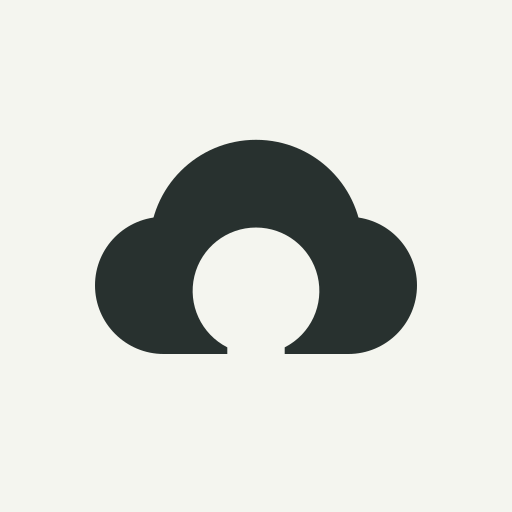
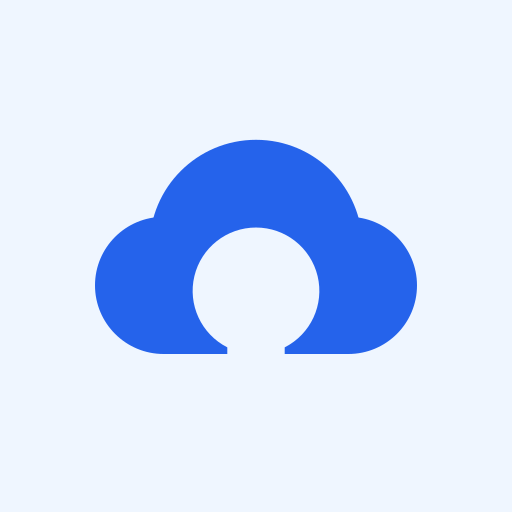
feat(theme): 晴空暖居 everywhere — retire the last sage colours (#4)
Finish the move to YunLeFun Design's 晴空暖居 palette across web, macOS
and the brand assets.

- 云空调 native plugin 0.3.1: tint #06B6D4 (cool cyan) from the rebuilt
  upstream package, with the new checksum, so existing installs update.
- Device accents follow the fixed tone mapping: AC cyan/coral, robot
  vacuum cyan/green, hand warmer amber, TV sky like the fan.
- 2D glyphs: the TV screen lights sky blue, robot vacuum body is cool
  slate, running LEDs are green, the hand warmer glows amber, and glyph
  and device shadows use slate/sky instead of sage ink.
- The robot's cleaning route is cyan in 2D (--tone-cool) and 3D.
- Scene brass is warm amber; the "sage" room wall, already sky blue, is
  renamed sky.
- Brand mark: a sky blue cloud gate on a pale sky tile. PWA, favicon,
  Apple touch and macOS icons are re-exported from the SVGs, and the PWA
  theme colour matches the page's #eef5ff.

Changed region(s): [[0.1875, 0.25, 0.8125, 0.7188]]

diff --git a/devices/robot-vacuum/RobotVacuumGlyph.vue b/devices/robot-vacuum/RobotVacuumGlyph.vue
@@ -40,16 +40,16 @@ withDefaults(defineProps<DeviceGlyphProps>(), {
   pointer-events: none;
 }
 
-.robot-glyph__shadow { fill: rgba(40, 49, 47, 0.14); }
-.robot-glyph__base { fill: #c4cbc0; stroke: #8a948b; stroke-width: 1.5; }
-.robot-glyph__body { fill: #fbfbf8; stroke: #a9b3a6; stroke-width: 2; }
-.robot-glyph__panel { fill: #e1e6de; stroke: #a5aea2; stroke-width: 1.5; }
-.robot-glyph__lidar { fill: #aab3a8; }
-.robot-glyph__lidar-top { fill: #e4e9e1; }
-.robot-glyph__detail { fill: none; stroke: #858f86; stroke-linecap: round; stroke-width: 2; }
-.robot-glyph__led { fill: #b2bab0; transition: fill var(--dur-3) ease; }
+.robot-glyph__shadow { fill: rgba(59, 70, 88, 0.14); }
+.robot-glyph__base { fill: #cdd6e1; stroke: #8fa0b6; stroke-width: 1.5; }
+.robot-glyph__body { fill: #ffffff; stroke: #9aabbf; stroke-width: 2; }
+.robot-glyph__panel { fill: #e3e9f1; stroke: #9aabbf; stroke-width: 1.5; }
+.robot-glyph__lidar { fill: #b3c0d0; }
+.robot-glyph__lidar-top { fill: #eef2f7; }
+.robot-glyph__detail { fill: none; stroke: #8fa0b6; stroke-linecap: round; stroke-width: 2; }
+.robot-glyph__led { fill: #b8c4d3; transition: fill var(--dur-3) ease; }
 
-.robot-glyph.is-active .robot-glyph__led { fill: #7fa07e; filter: drop-shadow(0 0 4px rgba(127, 160, 126, 0.8)); }
+.robot-glyph.is-active .robot-glyph__led { fill: #22c55e; filter: drop-shadow(0 0 4px rgba(34, 197, 94, 0.8)); }
 
 .robot-glyph.is-active .robot-glyph__lidar-top {
   animation: robot-glyph-lidar 1.6s linear infinite;

diff --git a/components/home/scene/SceneDefs.vue b/components/home/scene/SceneDefs.vue
@@ -8,9 +8,9 @@
       <stop offset="0" class="sc-stop" style="stop-color: var(--sc-wall-1)" />
       <stop offset="1" class="sc-stop" style="stop-color: var(--sc-wall-2)" />
     </linearGradient>
-    <linearGradient id="sc-wall-sage" x1="0" y1="0" x2="0" y2="1">
-      <stop offset="0" class="sc-stop" style="stop-color: var(--sc-sage-wall-1)" />
-      <stop offset="1" class="sc-stop" style="stop-color: var(--sc-sage-wall-2)" />
+    <linearGradient id="sc-wall-sky" x1="0" y1="0" x2="0" y2="1">
+      <stop offset="0" class="sc-stop" style="stop-color: var(--sc-sky-wall-1)" />
+      <stop offset="1" class="sc-stop" style="stop-color: var(--sc-sky-wall-2)" />
     </linearGradient>
     <linearGradient id="sc-wall-clay" x1="0" y1="0" x2="0" y2="1">
       <stop offset="0" class="sc-stop" style="stop-color: var(--sc-clay-wall-1)" />
@@ -77,9 +77,9 @@
       <stop offset="1" class="sc-stop" style="stop-color: var(--sc-wood-light-2)" />
     </linearGradient>
     <linearGradient id="sc-brass" x1="0" y1="0" x2="1" y2="1">
-      <stop offset="0" stop-color="#e8cf9a" />
-      <stop offset=".5" stop-color="#c59a55" />
-      <stop offset="1" stop-color="#9c7438" />
+      <stop offset="0" stop-color="#fbe2a8" />
+      <stop offset=".5" stop-color="#f2a93b" />
+      <stop offset="1" stop-color="#c47f22" />
     </linearGradient>
     <linearGradient id="sc-ceramic" x1="0" y1="0" x2="1" y2="0">
       <stop offset="0" class="sc-stop" style="stop-color: var(--sc-ceramic-1)" />

diff --git a/devices/television/TelevisionGlyph.vue b/devices/television/TelevisionGlyph.vue
@@ -41,7 +41,7 @@ withDefaults(defineProps<DeviceGlyphProps>(), {
   pointer-events: none;
 }
 
-.tv-glyph__shadow { fill: rgba(40, 49, 47, 0.14); }
+.tv-glyph__shadow { fill: rgba(59, 70, 88, 0.14); }
 .tv-glyph__body { fill: #2e3542; stroke: #171c25; stroke-width: 2; }
 .tv-glyph__screen { fill: #182235; stroke: #65718a; stroke-width: 1.5; transition: fill 180ms ease; }
 .tv-glyph__sky { fill: #435575; opacity: 0.28; }
@@ -51,10 +51,10 @@ withDefaults(defineProps<DeviceGlyphProps>(), {
 .tv-glyph__foot { fill: none; stroke: #343c49; stroke-linecap: round; stroke-width: 5; }
 .tv-glyph__led { fill: #758099; }
 
-.tv-glyph.is-active .tv-glyph__screen { fill: #6f949c; }
-.tv-glyph.is-active .tv-glyph__sky { fill: #b6d3d4; opacity: 0.76; }
+.tv-glyph.is-active .tv-glyph__screen { fill: #a3d2f6; }
+.tv-glyph.is-active .tv-glyph__sky { fill: #d8ecfc; opacity: 0.76; }
 .tv-glyph.is-active .tv-glyph__cloud { fill: #f5f8ff; opacity: 0.9; animation: tv-glyph-cloud 5s ease-in-out infinite; transform-box: fill-box; }
-.tv-glyph.is-active .tv-glyph__led { fill: #7fa07e; filter: drop-shadow(0 0 3px rgba(127, 160, 126, 0.9)); }
+.tv-glyph.is-active .tv-glyph__led { fill: #22c55e; filter: drop-shadow(0 0 3px rgba(34, 197, 94, 0.9)); }
 
 @keyframes tv-glyph-cloud {
   50% { transform: translateX(5px); }

diff --git a/components/home/HomeDeviceDetail.vue b/components/home/HomeDeviceDetail.vue
@@ -87,7 +87,7 @@ useHead({ title: () => definition.value.name })
   view-transition-name: device-hero;
 }
 
-.device-detail__vector :deep(.device-glyph) { position: relative; z-index: 1; width: 78%; height: 78%; filter: drop-shadow(0 22px 24px rgba(40, 49, 47, 0.18)); animation: float-y 5s ease-in-out infinite; }
+.device-detail__vector :deep(.device-glyph) { position: relative; z-index: 1; width: 78%; height: 78%; filter: drop-shadow(0 22px 24px rgba(30, 64, 115, 0.18)); animation: float-y 5s ease-in-out infinite; }
 .device-detail__aurora { position: absolute; inset: 6%; border-radius: 50%; background: radial-gradient(circle, color-mix(in oklab, var(--detail-tone) 34%, transparent), transparent 68%); filter: blur(18px); opacity: 0.45; transition: opacity var(--dur-4) ease, background var(--dur-4) ease; }
 .device-detail__vector.is-running .device-detail__aurora { opacity: 1; animation: breathe 4s ease-in-out infinite; }
 .device-detail__orbit { position: absolute; inset: 2%; border: 1px dashed var(--brand-line-strong); border-radius: 50%; opacity: 0.6; animation: spin 40s linear infinite; }

diff --git a/utils/scene3d/scene.ts b/utils/scene3d/scene.ts
@@ -7,7 +7,7 @@ import { SCENE3D_TEMPLATES } from '~/constants/scene3d'
 import { getPointAlongRoute, getRobotRoute } from '~/utils/home'
 import { buildDevice, buildRobotDock } from './devices'
 import { buildFurniture } from './furniture'
-import { Kit, PALETTE } from './kit'
+import { Kit, PALETTE, TONE_COLORS } from './kit'
 import { projectFloorPoint, projectPlacement, roomAtWorldX, roomExtent, SCENE3D, worldX } from './projection'
 
 /** A device hotspot projected to canvas pixels. */
@@ -461,7 +461,7 @@ export class HomeScene3D {
       const p = projectFloorPoint(point, template.width)
       return new THREE.Vector3(p.x, 0.012, p.z)
     }))
-    const line = new THREE.Line(geometry, new THREE.LineDashedMaterial({ color: '#5f939e', dashSize: 0.12, gapSize: 0.1, transparent: true, opacity: 0.75 }))
+    const line = new THREE.Line(geometry, new THREE.LineDashedMaterial({ color: TONE_COLORS.cool, dashSize: 0.12, gapSize: 0.1, transparent: true, opacity: 0.75 }))
     line.computeLineDistances()
     this.route = line
     this.deviceRoot.add(line)

diff --git a/devices/hand-warmer/HandWarmerGlyph.vue b/devices/hand-warmer/HandWarmerGlyph.vue
@@ -38,7 +38,7 @@ withDefaults(defineProps<DeviceGlyphProps>(), {
   pointer-events: none;
 }
 
-.warmer-glyph__shadow { fill: rgba(40, 49, 47, 0.14); }
+.warmer-glyph__shadow { fill: rgba(59, 70, 88, 0.14); }
 .warmer-glyph__handle { fill: none; stroke: #b9a07e; stroke-linecap: round; stroke-width: 8; }
 .warmer-glyph__body { fill: #f2d6c0; stroke: #c39d84; stroke-width: 2; }
 .warmer-glyph__panel { fill: #e6b391; stroke: #b98a6c; stroke-width: 1.5; }
@@ -46,7 +46,7 @@ withDefaults(defineProps<DeviceGlyphProps>(), {
 .warmer-glyph__led { fill: #fff2b0; transition: fill var(--dur-3) ease; }
 
 .warmer-glyph.is-active .warmer-glyph__warm-line { animation: warmer-glyph-rise 1.8s ease-in-out infinite; }
-.warmer-glyph.is-active .warmer-glyph__led { fill: #ffe7a8; filter: drop-shadow(0 0 5px rgba(197, 154, 85, 0.9)); }
+.warmer-glyph.is-active .warmer-glyph__led { fill: #ffe7a8; filter: drop-shadow(0 0 5px rgba(242, 169, 59, 0.9)); }
 
 @keyframes warmer-glyph-rise {
   50% { opacity: 0.45; transform: translateY(-2px); }

diff --git a/components/home/scene/SceneMoonGate.vue b/components/home/scene/SceneMoonGate.vue
@@ -15,7 +15,7 @@ const size = props.r * 2 + 24
     <clipPath :id="clipId">
       <circle :cx="cx" :cy="cy" :r="r * 0.78" />
     </clipPath>
-    <circle :cx="cx" :cy="cy" :r="r * 0.78" style="fill: var(--sc-sage-wall-2)" />
+    <circle :cx="cx" :cy="cy" :r="r * 0.78" style="fill: var(--sc-sky-wall-2)" />
     <g :clip-path="`url(#${clipId})`">
       <path
 :d="`M${cx - r} ${cy + r * 0.3}c${r * 0.4} -${r * 0.3} ${r * 0.8} ${r * 0.1} ${r * 1.2} -${r * 0.1}s${r * 0.6} ${r * 0.2} ${r * 0.8} 0V${cy + r}H${cx - r}Z`"

diff --git a/components/home/HomeSceneCloudApartment.vue b/components/home/HomeSceneCloudApartment.vue
@@ -24,7 +24,7 @@ import SceneWindow from './scene/SceneWindow.vue'
 
     <g data-layer="shell">
       <SceneRoomShell :x0="18" :x1="620" divider />
-      <SceneRoomShell :x0="620" :x1="1205" accent="sage" divider />
+      <SceneRoomShell :x0="620" :x1="1205" accent="sky" divider />
       <SceneRoomShell :x0="1205" :x1="1582" accent="clay" />
       <rect x="18" y="30" width="1564" height="760" rx="6" fill="none" style="stroke: var(--sc-partition)" stroke-width="10" />
     </g>

diff --git a/components/home/HomeDevice.vue b/components/home/HomeDevice.vue
@@ -133,7 +133,7 @@ function onKeydown(event: KeyboardEvent) {
   border: 0;
   background: transparent;
   cursor: pointer;
-  filter: drop-shadow(0 9px 10px rgba(40, 49, 47, 0.2));
+  filter: drop-shadow(0 9px 10px rgba(30, 64, 115, 0.2));
   transform: translate(-50%, calc(var(--device-anchor-y) + var(--device-lift))) rotate(var(--device-rotation));
   transform-origin: 50% 70%;
   transition: filter var(--dur-2) ease, transform var(--dur-3) var(--ease-spring);

diff --git a/components/home/HomeSceneComfortSuite.vue b/components/home/HomeSceneComfortSuite.vue
@@ -21,7 +21,7 @@ import SceneWindow from './scene/SceneWindow.vue'
 
     <g data-layer="shell">
       <SceneRoomShell :x0="18" :x1="805" divider />
-      <SceneRoomShell :x0="805" :x1="1582" accent="sage" />
+      <SceneRoomShell :x0="805" :x1="1582" accent="sky" />
       <rect x="18" y="30" width="1564" height="760" rx="6" fill="none" style="stroke: var(--sc-partition)" stroke-width="10" />
     </g>
 

diff --git a/devices/air-conditioner/manifest.ts b/devices/air-conditioner/manifest.ts
@@ -15,7 +15,7 @@ export const airConditionerManifest: DevicePluginManifest<'air-conditioner'> = {
   route: '/items/air-conditioner',
   size: { width: 190, height: 88 },
   surfaces: ['wall'],
-  accent: { cool: '#6f9ea8', heat: '#d18c5c' },
+  accent: { cool: '#06b6d4', heat: '#ff6b4a' },
   integrations: [
     {
       id: 'home-assistant',

diff --git a/components/home/HomeScene.vue b/components/home/HomeScene.vue
@@ -373,7 +373,7 @@ v-for="room in dimmedRooms" :key="room.id" :x="room.x" :y="room.y" :width="room.
 
 .home-scene__route polyline {
   fill: none;
-  stroke: rgba(95, 147, 158, 0.9);
+  stroke: color-mix(in oklab, var(--tone-cool) 90%, transparent);
   stroke-dasharray: 12 10;
   stroke-linecap: round;
   stroke-width: 4;
